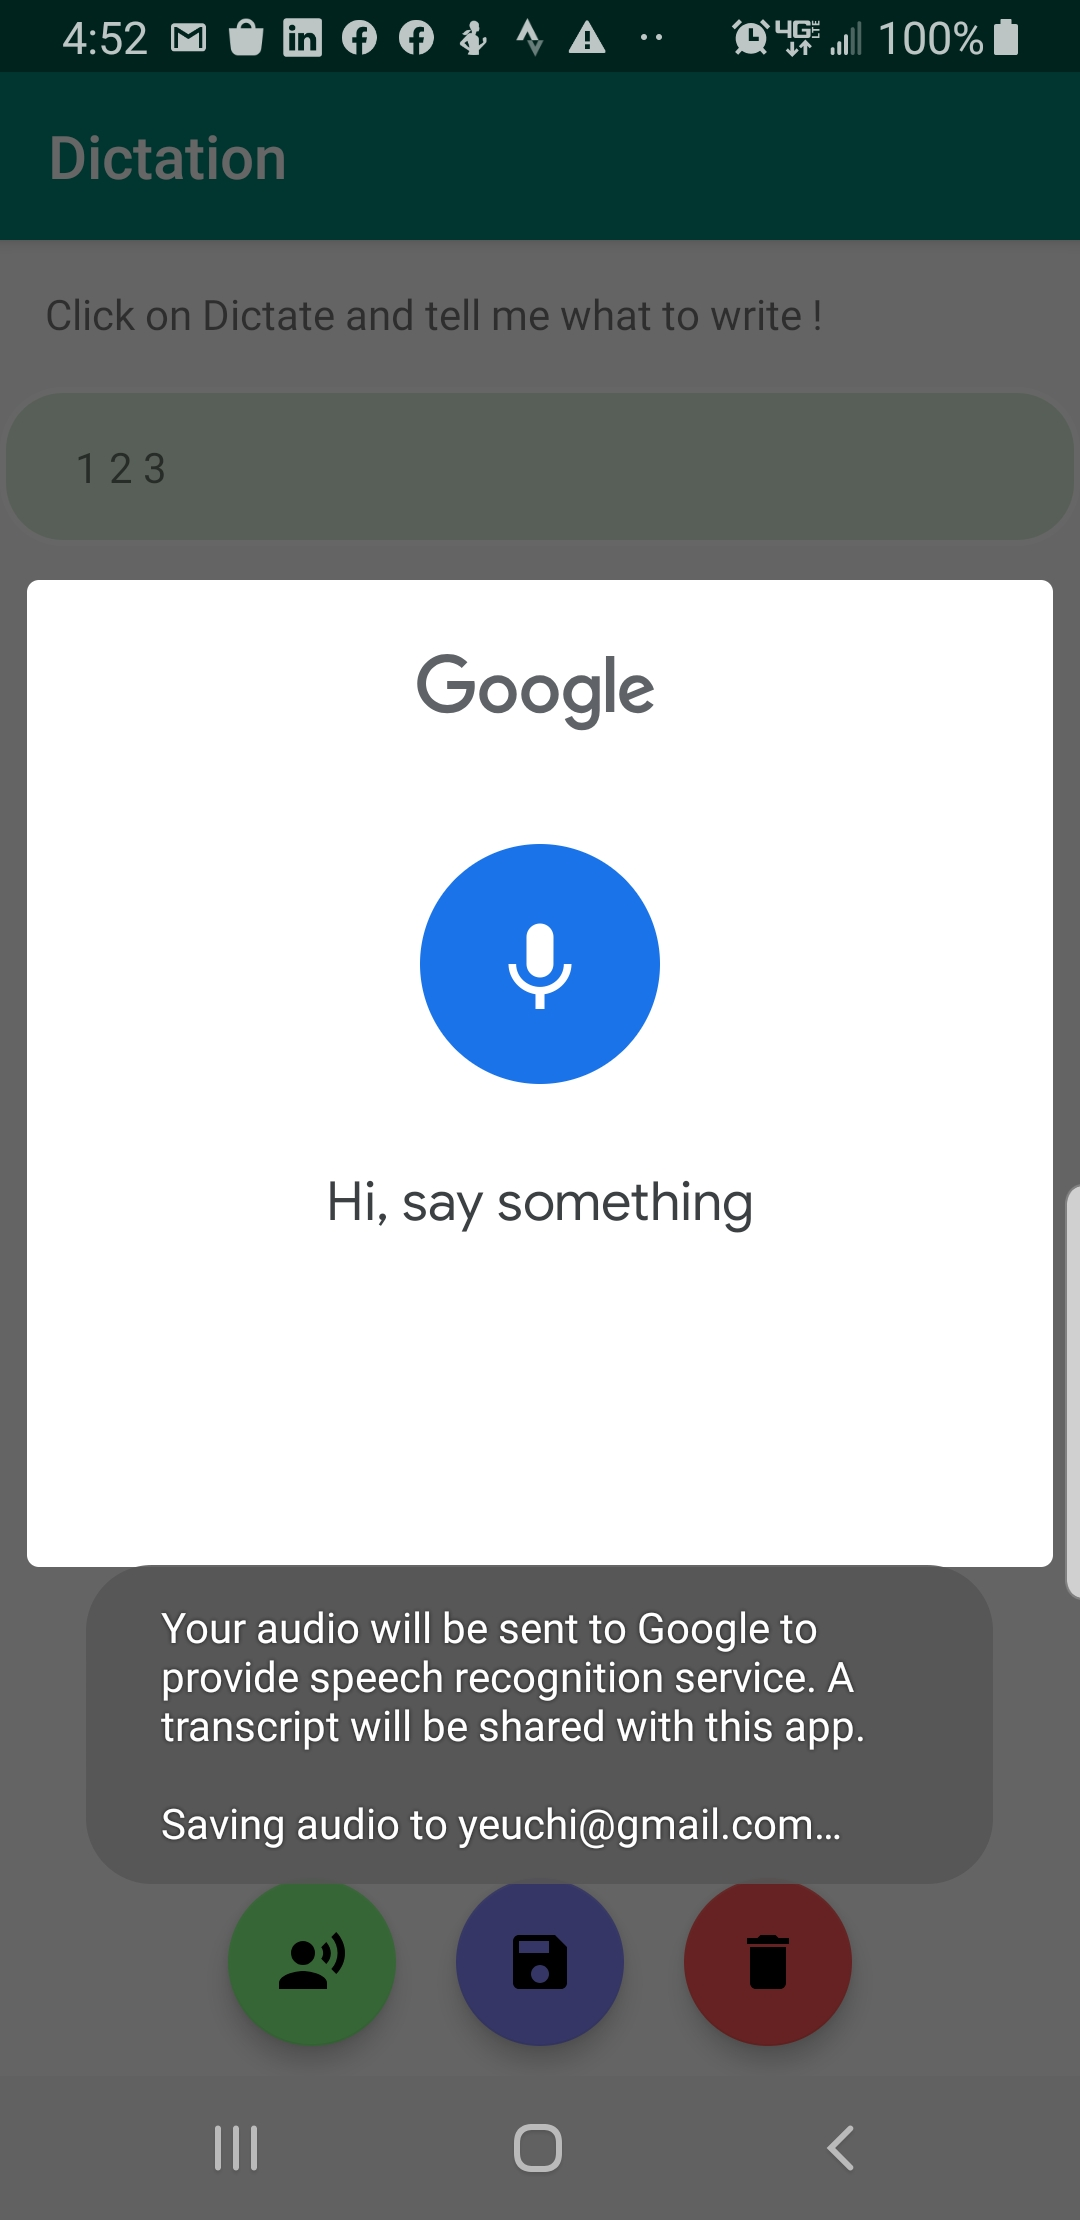
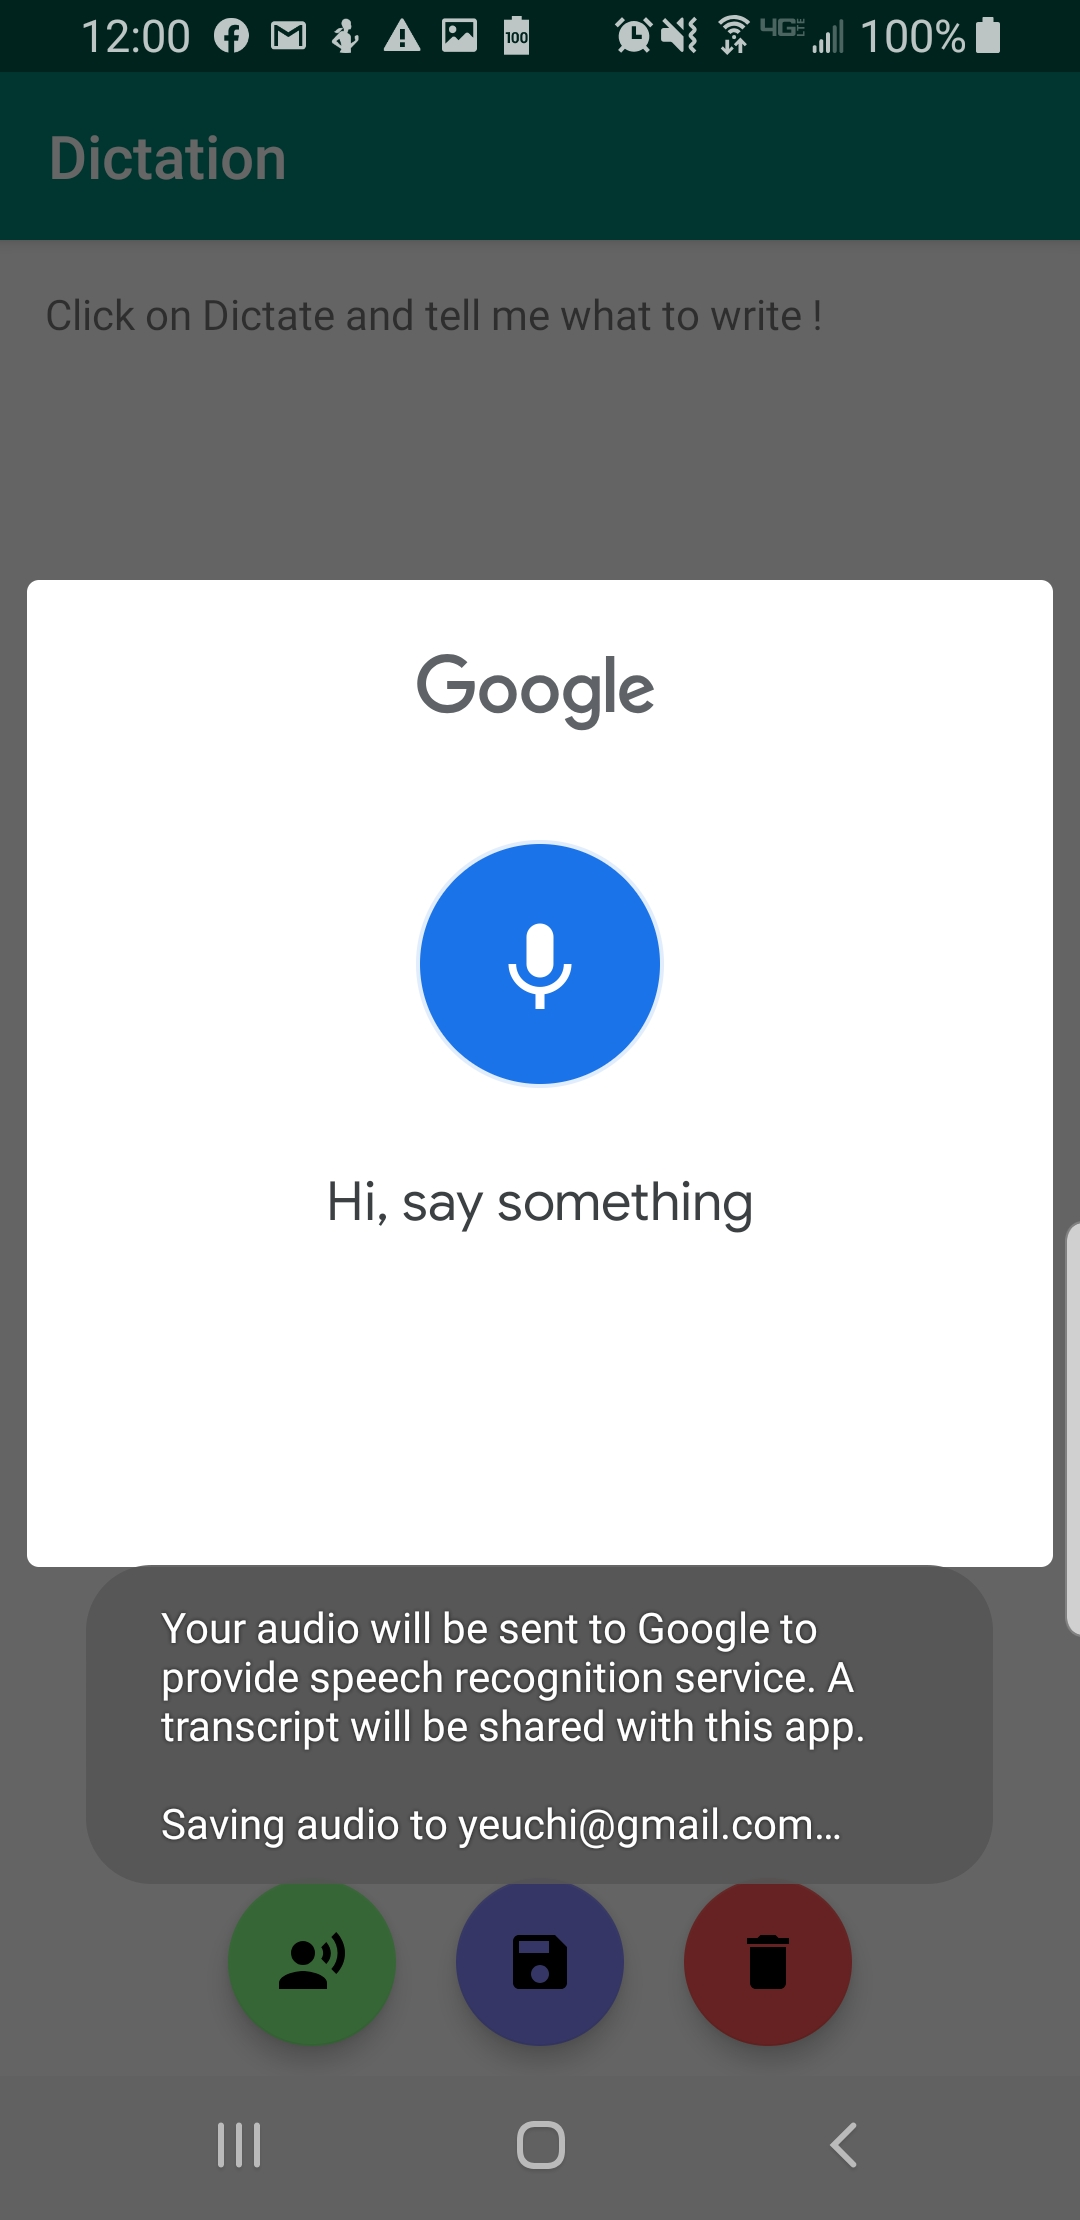
version 2 and Google play screenshots
1. Google play does not like the default screenshots' aspect ratio.

diff --git a/mobile/src/main/java/com/ctyeung/dictatekotlin/MainActivity.kt b/mobile/src/main/java/com/ctyeung/dictatekotlin/MainActivity.kt
@@ -179,9 +179,6 @@ class MainActivity : AppCompatActivity(),
         }
     }
 
-    /*
-     * Refactor !! model -> Serializes
-     */
     override fun onShareDlgClick() {
         val result = FileSerializer.write2email(activity)
         Toast.makeText(this, result.second, Toast.LENGTH_SHORT).show()
